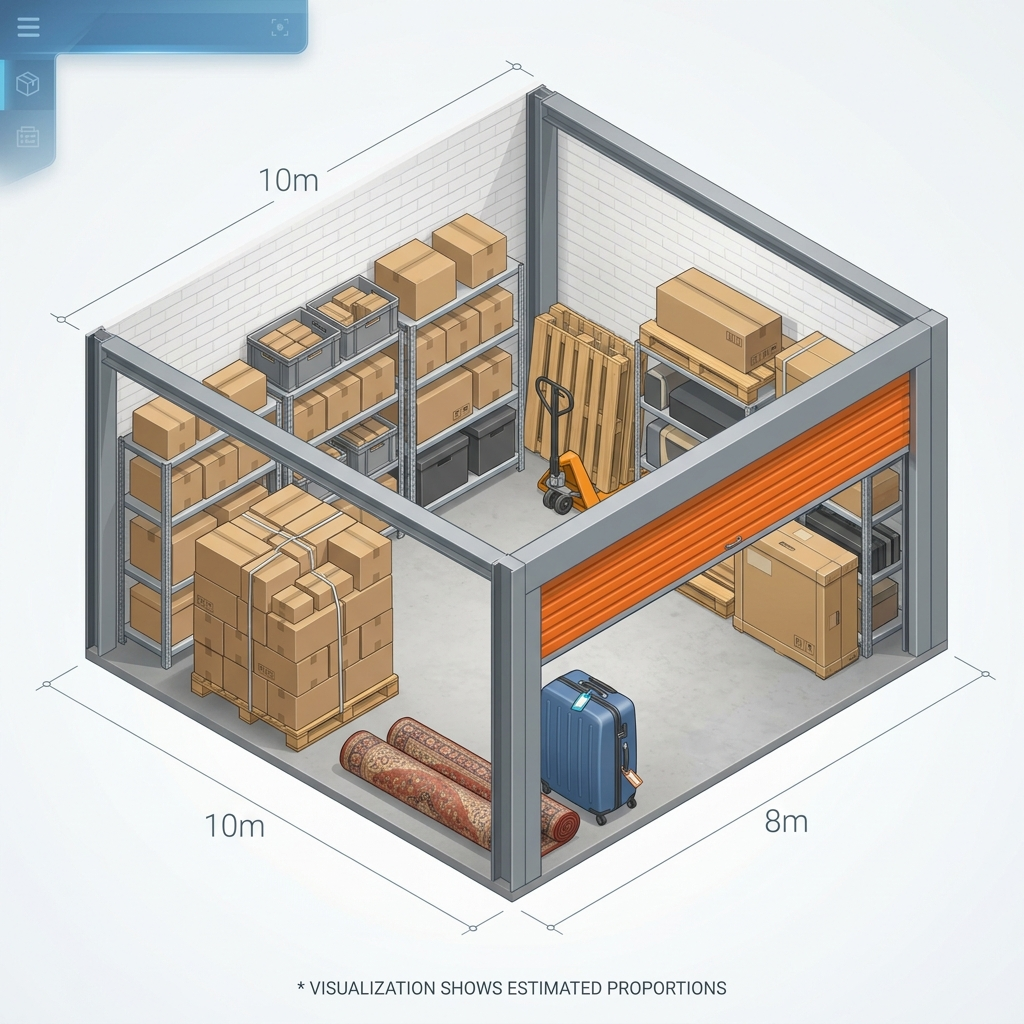
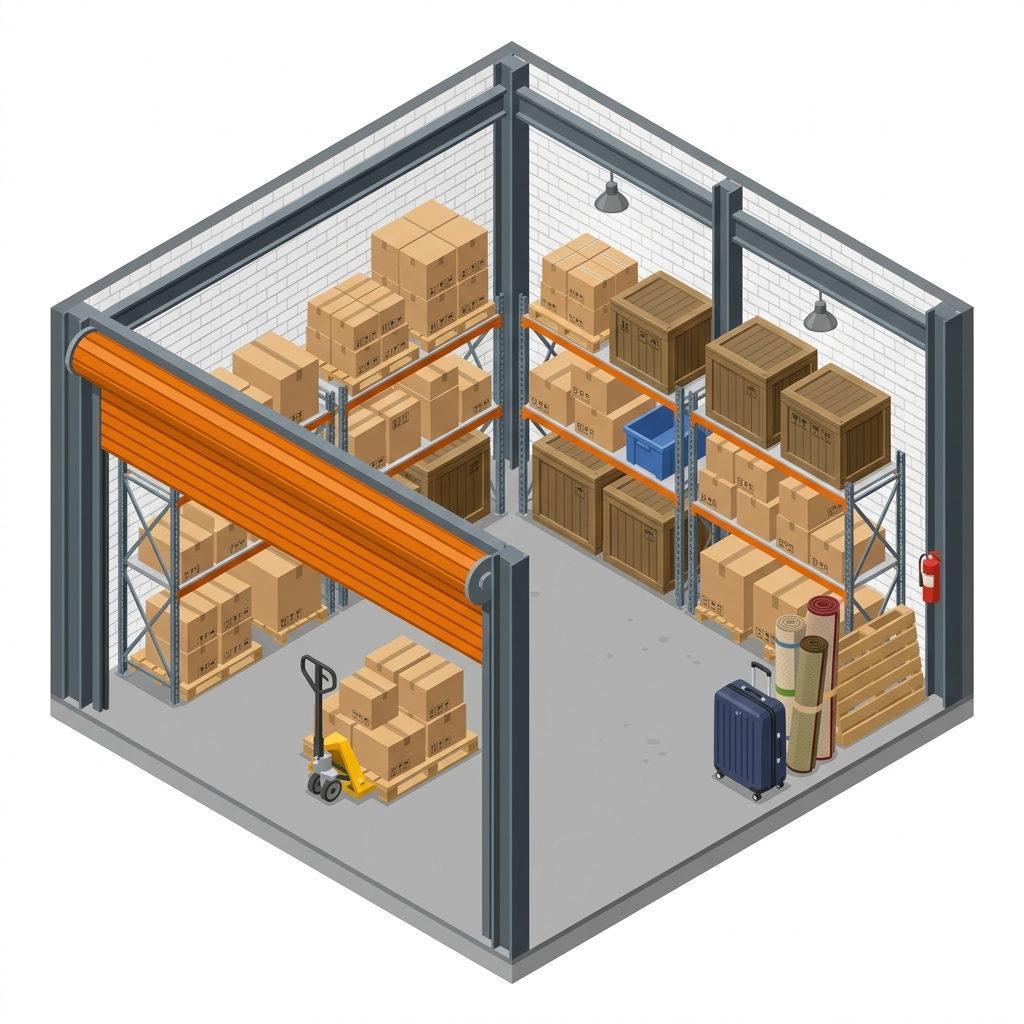
Fix dimension mismatch: clean images with no baked-in text, restore dynamic HUD overlays for correct per-unit dimensions

diff --git a/chadwick-wynberg.html b/chadwick-wynberg.html
@@ -218,6 +218,20 @@
                                     <div id="sf-hud-area"></div>
                                     <div class="sf-hud-badge-tag">Actual Size</div>
                                 </div>
+
+                                <!-- Width (Left Side - front face) -->
+                                <div class="sf-hud-line sf-hud-left" id="sf-hud-left-wrapper">
+                                    <div class="sf-hud-label" id="sf-hud-wid"></div>
+                                    <div class="sf-hud-connector"></div>
+                                </div>
+
+                                <!-- Length (Right Side - depth) -->
+                                <div class="sf-hud-line sf-hud-right" id="sf-hud-right-wrapper">
+                                    <div class="sf-hud-label" id="sf-hud-len"></div>
+                                    <div class="sf-hud-connector"></div>
+                                </div>
+
+                                <div class="sf-hud-disclaimer">* Visualization shows estimated proportions</div>
                             </div>
                         </div>
 
@@ -357,7 +371,21 @@
                 resultEl.style.display = 'block';
                 
                 document.getElementById('sf-3d-image').src = SF_DATA[cat].image;
+                
+                // Proportional HUD Scaling: left=Width (front face), right=Length (depth)
+                var catRef = { small: {l:5, w:3}, medium: {l:7, w:5}, large: {l:15, w:9} };
+                var ref = catRef[cat];
+                var widPct = Math.min(Math.max((sizeData.w / ref.w) * 35 + 10, 12), 55);
+                var lenPct = Math.min(Math.max((sizeData.l / ref.l) * 45 + 10, 15), 65);
+
+                var leftWrapper = document.getElementById('sf-hud-left-wrapper');
+                var rightWrapper = document.getElementById('sf-hud-right-wrapper');
+                if (leftWrapper) leftWrapper.style.width = widPct + '%';
+                if (rightWrapper) rightWrapper.style.width = lenPct + '%';
+
                 document.getElementById('sf-hud-area').textContent = sizeData.m + ' m\u00b2';
+                document.getElementById('sf-hud-wid').textContent = sizeData.w + 'm';
+                document.getElementById('sf-hud-len').textContent = sizeData.l + 'm';
                 
                 document.getElementById('sf-fits-icon').textContent = sizeData.icon;
                 document.getElementById('sf-fits-title').textContent = sizeData.title;

diff --git a/johannesburg-cbd.html b/johannesburg-cbd.html
@@ -208,6 +208,20 @@
                                     <div id="sf-hud-area"></div>
                                     <div class="sf-hud-badge-tag">Actual Size</div>
                                 </div>
+
+                                <!-- Width (Left Side - front face) -->
+                                <div class="sf-hud-line sf-hud-left" id="sf-hud-left-wrapper">
+                                    <div class="sf-hud-label" id="sf-hud-wid"></div>
+                                    <div class="sf-hud-connector"></div>
+                                </div>
+
+                                <!-- Length (Right Side - depth) -->
+                                <div class="sf-hud-line sf-hud-right" id="sf-hud-right-wrapper">
+                                    <div class="sf-hud-label" id="sf-hud-len"></div>
+                                    <div class="sf-hud-connector"></div>
+                                </div>
+
+                                <div class="sf-hud-disclaimer">* Visualization shows estimated proportions</div>
                             </div>
                         </div>
 
@@ -349,7 +363,21 @@
                 resultEl.style.display = 'block';
                 
                 document.getElementById('sf-3d-image').src = SF_DATA[cat].image;
+                
+                // Proportional HUD Scaling: left=Width (front face), right=Length (depth)
+                var catRef = { small: {l:5, w:3}, medium: {l:7, w:5}, large: {l:15, w:9} };
+                var ref = catRef[cat];
+                var widPct = Math.min(Math.max((sizeData.w / ref.w) * 35 + 10, 12), 55);
+                var lenPct = Math.min(Math.max((sizeData.l / ref.l) * 45 + 10, 15), 65);
+
+                var leftWrapper = document.getElementById('sf-hud-left-wrapper');
+                var rightWrapper = document.getElementById('sf-hud-right-wrapper');
+                if (leftWrapper) leftWrapper.style.width = widPct + '%';
+                if (rightWrapper) rightWrapper.style.width = lenPct + '%';
+
                 document.getElementById('sf-hud-area').textContent = sizeData.m + ' m\u00b2';
+                document.getElementById('sf-hud-wid').textContent = sizeData.w + 'm';
+                document.getElementById('sf-hud-len').textContent = sizeData.l + 'm';
                 
                 document.getElementById('sf-fits-icon').textContent = sizeData.icon;
                 document.getElementById('sf-fits-title').textContent = sizeData.title;

diff --git a/vereeniging.html b/vereeniging.html
@@ -208,6 +208,20 @@
                                     <div id="sf-hud-area"></div>
                                     <div class="sf-hud-badge-tag">Actual Size</div>
                                 </div>
+
+                                <!-- Width (Left Side - front face) -->
+                                <div class="sf-hud-line sf-hud-left" id="sf-hud-left-wrapper">
+                                    <div class="sf-hud-label" id="sf-hud-wid"></div>
+                                    <div class="sf-hud-connector"></div>
+                                </div>
+
+                                <!-- Length (Right Side - depth) -->
+                                <div class="sf-hud-line sf-hud-right" id="sf-hud-right-wrapper">
+                                    <div class="sf-hud-label" id="sf-hud-len"></div>
+                                    <div class="sf-hud-connector"></div>
+                                </div>
+
+                                <div class="sf-hud-disclaimer">* Visualization shows estimated proportions</div>
                             </div>
                         </div>
 
@@ -349,7 +363,21 @@
                 resultEl.style.display = 'block';
                 
                 document.getElementById('sf-3d-image').src = SF_DATA[cat].image;
+                
+                // Proportional HUD Scaling: left=Width (front face), right=Length (depth)
+                var catRef = { small: {l:5, w:3}, medium: {l:7, w:5}, large: {l:15, w:9} };
+                var ref = catRef[cat];
+                var widPct = Math.min(Math.max((sizeData.w / ref.w) * 35 + 10, 12), 55);
+                var lenPct = Math.min(Math.max((sizeData.l / ref.l) * 45 + 10, 15), 65);
+
+                var leftWrapper = document.getElementById('sf-hud-left-wrapper');
+                var rightWrapper = document.getElementById('sf-hud-right-wrapper');
+                if (leftWrapper) leftWrapper.style.width = widPct + '%';
+                if (rightWrapper) rightWrapper.style.width = lenPct + '%';
+
                 document.getElementById('sf-hud-area').textContent = sizeData.m + ' m\u00b2';
+                document.getElementById('sf-hud-wid').textContent = sizeData.w + 'm';
+                document.getElementById('sf-hud-len').textContent = sizeData.l + 'm';
                 
                 document.getElementById('sf-fits-icon').textContent = sizeData.icon;
                 document.getElementById('sf-fits-title').textContent = sizeData.title;

diff --git a/wynberg.html b/wynberg.html
@@ -207,6 +207,20 @@
                                     <div id="sf-hud-area"></div>
                                     <div class="sf-hud-badge-tag">Actual Size</div>
                                 </div>
+
+                                <!-- Width (Left Side - front face) -->
+                                <div class="sf-hud-line sf-hud-left" id="sf-hud-left-wrapper">
+                                    <div class="sf-hud-label" id="sf-hud-wid"></div>
+                                    <div class="sf-hud-connector"></div>
+                                </div>
+
+                                <!-- Length (Right Side - depth) -->
+                                <div class="sf-hud-line sf-hud-right" id="sf-hud-right-wrapper">
+                                    <div class="sf-hud-label" id="sf-hud-len"></div>
+                                    <div class="sf-hud-connector"></div>
+                                </div>
+
+                                <div class="sf-hud-disclaimer">* Visualization shows estimated proportions</div>
                             </div>
                         </div>
 
@@ -346,7 +360,21 @@
                 resultEl.style.display = 'block';
                 
                 document.getElementById('sf-3d-image').src = SF_DATA[cat].image;
+                
+                // Proportional HUD Scaling: left=Width (front face), right=Length (depth)
+                var catRef = { small: {l:5, w:3}, medium: {l:7, w:5}, large: {l:15, w:9} };
+                var ref = catRef[cat];
+                var widPct = Math.min(Math.max((sizeData.w / ref.w) * 35 + 10, 12), 55);
+                var lenPct = Math.min(Math.max((sizeData.l / ref.l) * 45 + 10, 15), 65);
+
+                var leftWrapper = document.getElementById('sf-hud-left-wrapper');
+                var rightWrapper = document.getElementById('sf-hud-right-wrapper');
+                if (leftWrapper) leftWrapper.style.width = widPct + '%';
+                if (rightWrapper) rightWrapper.style.width = lenPct + '%';
+
                 document.getElementById('sf-hud-area').textContent = sizeData.m + ' m\u00b2';
+                document.getElementById('sf-hud-wid').textContent = sizeData.w + 'm';
+                document.getElementById('sf-hud-len').textContent = sizeData.l + 'm';
                 
                 document.getElementById('sf-fits-icon').textContent = sizeData.icon;
                 document.getElementById('sf-fits-title').textContent = sizeData.title;
